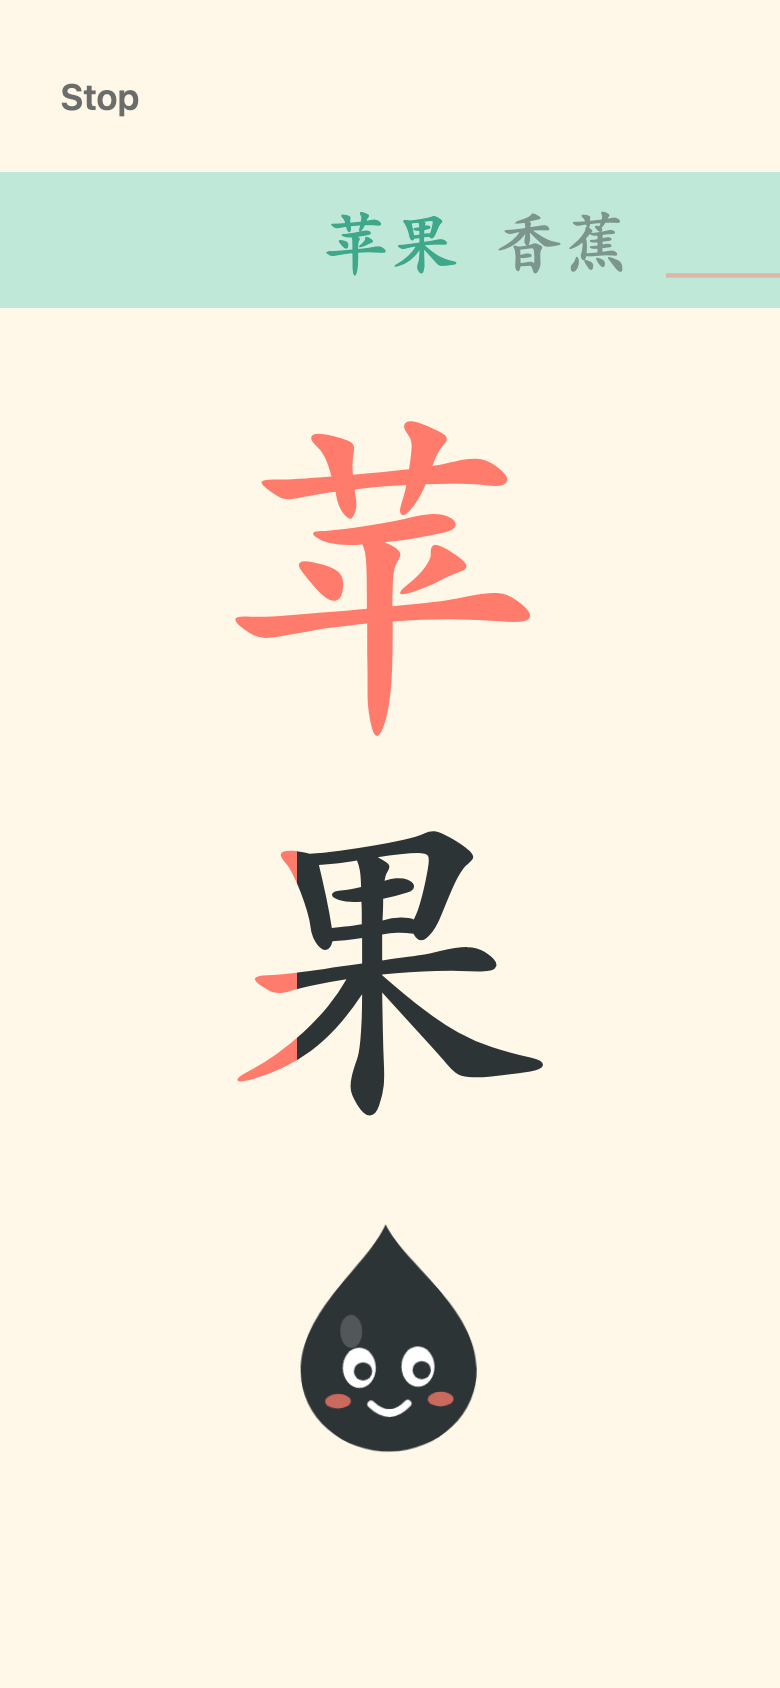
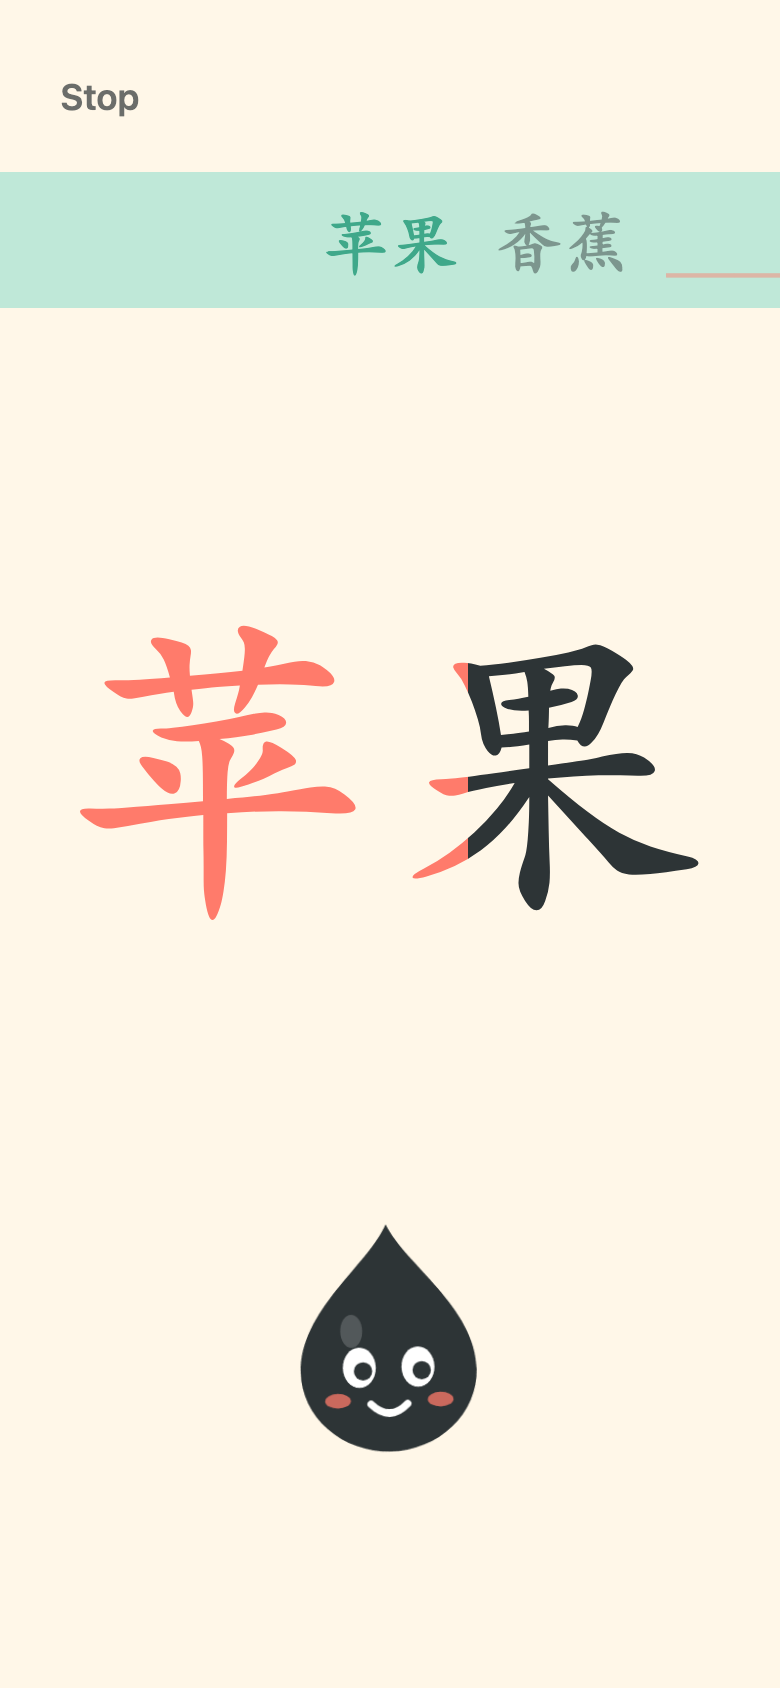
spike(momo-fun): short words stay on one line, report and README updated for round 3, fresh receipt (88 pass)

Changed region(s): [[0.0923, 0.2464, 0.8923, 0.6777]]

diff --git a/spikes/2026-09-28-momo-fun/comic-bubbles.html b/spikes/2026-09-28-momo-fun/comic-bubbles.html
@@ -205,14 +205,15 @@ function charCount(s){ return Array.from(s).length; }
 // Biggest font size that fits a word inside a box by BOTH width and height. Tries every line count
 // (at most maxPerLine characters a line) and caps the element width so the lines come out even.
 function fitWord(text, boxW, boxH, maxPx, maxPerLine){
-  var n = Math.max(1, charCount(text)), best = { px: 0, per: n };
+  var n = Math.max(1, charCount(text)), opts = [], top = 0;
   for (var lines = Math.ceil(n / maxPerLine); lines <= n; lines++){
     var per = Math.ceil(n / lines), rows = Math.ceil(n / per);
     var px = Math.floor(Math.min(maxPx, boxW / (per * 1.12), boxH / (rows * 1.2)));
-    if (px > best.px) best = { px: px, per: per };
+    opts.push({ px: Math.max(14, px), per: per }); top = Math.max(top, px);
   }
-  best.px = Math.max(14, best.px);
-  return best;
+  // Fewest lines that are nearly as big as the best: a short word stays on one line instead of stacking.
+  for (var i = 0; i < opts.length; i++) if (opts[i].px >= top * 0.8) return opts[i];
+  return opts[0];
 }
 function applyFit(el, text, boxW, boxH, maxPx, maxPerLine){
   var f = fitWord(text, boxW, boxH, maxPx, maxPerLine);

diff --git a/spikes/2026-09-28-momo-fun/karaoke-blanks.html b/spikes/2026-09-28-momo-fun/karaoke-blanks.html
@@ -192,14 +192,15 @@ function charCount(s){ return Array.from(s).length; }
 // Biggest font size that fits a word inside a box by BOTH width and height. Tries every line count
 // (at most maxPerLine characters a line) and caps the element width so the lines come out even.
 function fitWord(text, boxW, boxH, maxPx, maxPerLine){
-  var n = Math.max(1, charCount(text)), best = { px: 0, per: n };
+  var n = Math.max(1, charCount(text)), opts = [], top = 0;
   for (var lines = Math.ceil(n / maxPerLine); lines <= n; lines++){
     var per = Math.ceil(n / lines), rows = Math.ceil(n / per);
     var px = Math.floor(Math.min(maxPx, boxW / (per * 1.12), boxH / (rows * 1.2)));
-    if (px > best.px) best = { px: px, per: per };
+    opts.push({ px: Math.max(14, px), per: per }); top = Math.max(top, px);
   }
-  best.px = Math.max(14, best.px);
-  return best;
+  // Fewest lines that are nearly as big as the best: a short word stays on one line instead of stacking.
+  for (var i = 0; i < opts.length; i++) if (opts[i].px >= top * 0.8) return opts[i];
+  return opts[0];
 }
 function applyFit(el, text, boxW, boxH, maxPx, maxPerLine){
   var f = fitWord(text, boxW, boxH, maxPx, maxPerLine);

diff --git a/spikes/2026-09-28-momo-fun/teach-momo.html b/spikes/2026-09-28-momo-fun/teach-momo.html
@@ -180,14 +180,15 @@ function charCount(s){ return Array.from(s).length; }
 // Biggest font size that fits a word inside a box by BOTH width and height. Tries every line count
 // (at most maxPerLine characters a line) and caps the element width so the lines come out even.
 function fitWord(text, boxW, boxH, maxPx, maxPerLine){
-  var n = Math.max(1, charCount(text)), best = { px: 0, per: n };
+  var n = Math.max(1, charCount(text)), opts = [], top = 0;
   for (var lines = Math.ceil(n / maxPerLine); lines <= n; lines++){
     var per = Math.ceil(n / lines), rows = Math.ceil(n / per);
     var px = Math.floor(Math.min(maxPx, boxW / (per * 1.12), boxH / (rows * 1.2)));
-    if (px > best.px) best = { px: px, per: per };
+    opts.push({ px: Math.max(14, px), per: per }); top = Math.max(top, px);
   }
-  best.px = Math.max(14, best.px);
-  return best;
+  // Fewest lines that are nearly as big as the best: a short word stays on one line instead of stacking.
+  for (var i = 0; i < opts.length; i++) if (opts[i].px >= top * 0.8) return opts[i];
+  return opts[0];
 }
 function applyFit(el, text, boxW, boxH, maxPx, maxPerLine){
   var f = fitWord(text, boxW, boxH, maxPx, maxPerLine);

diff --git a/spikes/2026-09-28-momo-fun/check.py b/spikes/2026-09-28-momo-fun/check.py
@@ -73,6 +73,7 @@ TEACH_LAYOUT = """()=>{const out=[],H=innerHeight,W=innerWidth,$=id=>document.ge
   const g=glyphs($('word'));const wb=Math.max(...g.map(x=>x.bottom));
   if(Math.min(...g.map(x=>x.left))<0||Math.max(...g.map(x=>x.right))>W||Math.min(...g.map(x=>x.top))<0)out.push('word off screen');
   if(uneven($('word')))out.push('uneven word lines '+uneven($('word')));
+  if($('word').textContent.length<=3&&new Set(glyphs($('word')).map(g=>Math.round(g.top))).size>1)out.push('short word split over lines');
   const b=$('bubble');if(!b.hidden){const br=b.getBoundingClientRect();if(br.top<wb-1)out.push('bubble covers word by '+Math.round(wb-br.top)+'px');
     const z=b.querySelector('.zh');if(z&&uneven(z))out.push('uneven bubble lines '+uneven(z))}
   const m=$('momo').getBoundingClientRect();if(m.bottom>act.top+1)out.push('Momo under the button');
@@ -150,6 +151,7 @@ with sync_playwright() as p:
     pg.click("[data-speed=fast]"); small_targets(pg, "karaoke setup screen")
     pg.screenshot(path=str(SHOTS / "karaoke-setup.png"), full_page=True)
     pg.click("#go"); pg.wait_for_timeout(600); pg.screenshot(path=str(SHOTS / "karaoke-singing.png"))
+    check("karaoke: a 2-character word stays on one line", pg.evaluate("new Set([...document.querySelectorAll('#kword span')].map(s=>Math.round(s.getBoundingClientRect().top))).size") == 1)
     pg.wait_for_selector("#stage.is-gap", timeout=6000); pg.wait_for_timeout(400)
     small_targets(pg, "karaoke blank screen"); pg.screenshot(path=str(SHOTS / "karaoke-blank.png"))
     check("karaoke: reveal button has an eye icon", pg.locator("#reveal svg.ic").count() == 1)

diff --git a/spikes/2026-09-28-momo-fun/BUILD-REPORT.md b/spikes/2026-09-28-momo-fun/BUILD-REPORT.md
@@ -4,7 +4,7 @@ Date: 2026-09-28. Branch: `feat/momo-fun-spikes` (draft PR #8). Folder: `spikes/
 
 Evidence grades: A = proven in production, B = proven in source or by the committed check (`check.py`, result in `check-receipt.txt`), C = not verified.
 
-Round 2 (same day): both PR reviewers said FIX-FIRST. Every must-fix and should-fix was applied; see "Review fixes" below.
+Round 2 (same day): both PR reviewers said FIX-FIRST. All must-fixes and the should-fixes listed under "Review fixes" were applied. Round 3: one regression from the long-word fix (Teach Momo's button pushed off landscape screens) was fixed, plus the listed small items; see "Round 3 fixes".
 
 ## What each spike does
 
@@ -12,13 +12,13 @@ These are **teacher-tapped on one shared screen** (projector, smartboard or a ta
 
 | Spike | Flow | Grade |
 |---|---|---|
-| `teach-momo.html` | Paste list, Start. One word shows huge (long words wrap onto balanced lines). Button cycles: "Teach Momo" (ear; Momo leans in, "I'm listening...") then "I said it!" (mouth; 1st tap: Momo tilts, wavy mouth, red "?", "Hmm? One more time!"; 2nd tap: Momo bounces with sparkles, bubble repeats the word plus pinyin if pasted, counter goes up) then "Next word" (arrow) or "Finish" (star). End screen: "Momo learned all N words!" (or "Momo learned the word!" for one), "Teach again". | B |
+| `teach-momo.html` | Paste list, Start. One word shows as big as the screen allows: sized by both width and height, so the button always stays on screen; long words wrap onto even lines, short words stay on one line. Button cycles: "Teach Momo" (ear; Momo leans in, "I'm listening...") then "I said it!" (mouth; 1st tap: Momo tilts, wavy mouth, red "?", "Hmm? One more time!"; 2nd tap: Momo bounces with sparkles, bubble repeats the word (even lines) plus pinyin if pasted, counter goes up) then "Next word" (arrow) or "Finish" (star). End screen: "Momo learned all N words!" (or "Momo learned the word!" for one), "Teach again". | B |
 | `karaoke-blanks.html` | Paste list, Next. Word chips appear, every 3rd word pre-marked as a blank (tap to toggle). Speed: Slow / Normal / Fast. Play: a lyric strip scrolls along the top, the current word shows huge and lights up coral one character at a time (so a wrapped word still lights in reading order). At a blank: dashed "?" box, mouth icon plus "Everybody, shout it!", Momo makes an "O" mouth, "Show the word" (eye). One tap: word pops in, Momo jumps, cheer bubble, song continues. End: "That's the song!". "New list" returns to a clean paste step. | B |
-| `comic-bubbles.html` | Paste list, "Make the comic". 3 panels stacked full width on every screen size (Momo alone; Momo + coral friend; friend + Momo), 5 dashed "tap me" bubbles. Tap a bubble (it glows), tap a word; selection hops to the next empty bubble. Bubble text shrinks by word length and wraps, and two bubbles in a panel each stay under half the width. Shuffle uses every word once before repeating and leaves bubble 1 highlighted. "Empty the bubbles" resets. Print (Letter or A4) prints only the comic plus "Act it out! Name: ____"; printing before a comic exists prints "Make the comic first, then print." | B |
+| `comic-bubbles.html` | Paste list, "Make the comic". 3 panels stacked full width on every screen size (Momo alone; Momo + coral friend; friend + Momo), 5 dashed "tap me" bubbles. Tap a bubble (it glows), tap a word; selection hops to the next empty bubble. Bubble text shrinks by word length and wraps, and two bubbles in a panel each stay under half the width. Shuffle uses every word once before repeating and leaves bubble 1 highlighted. "Empty the bubbles" resets. Print (Letter or A4) prints only the comic plus "Act it out! Name: ____"; panel height follows the paper and the print margin, so it stays one page. Printing before a comic exists, or after "New list", prints "Make the comic first, then print." | B |
 
 Shared by all three (verified identical by `check.py`): the paste reader, small helpers and button icons (one JS block); the colour tokens (one CSS block); the Momo SVG markup. Momo is the same base art in every file; each mode shows its own mouth states through CSS (Teach: smile, "O", wavy; Karaoke: smile, "O"; Comic: smile). All colours live in `:root` tokens (core palette plus white, button shadows, error, soft coral, selected, muted); the SVG uses the tokens through CSS classes. Motion is CSS only; no network requests; system fonts only; `prefers-reduced-motion` respected; localStorage wrapped in try/catch. Tunable values sit in each file's `CONFIG` (word-count limits, when long words wrap, blank mark, bubble sizes, print margin, timings).
 
-Paste reader: pairs each Chinese word with the pinyin that follows it before looking at separators, so tab columns (Google Sheets, Excel), CSV lines, `苹果/píngguǒ`, numbered lists and `píngguǒ 苹果` all keep their pinyin. Pinyin needs tone marks or tone numbers; English is dropped. Known limit (C): an English word with an accent (café) would be read as pinyin.
+Paste reader: pairs each Chinese word with the pinyin that follows it before looking at separators, so tab columns (Google Sheets, Excel), CSV lines, `苹果/píngguǒ`, numbered lists and `píngguǒ 苹果` all keep their pinyin. Lines that start with pinyin (`píngguǒ 苹果 xiāngjiāo 香蕉`) give each word the pinyin before it. Pinyin needs tone marks or tone numbers; English is dropped. Known limits: an English word with an accent (café) is read as pinyin (C, not in check.py); a line with several words where pinyin is missing for some of them in an unusual order (`苹果 香蕉 píngguǒ`) can attach the pinyin to the wrong word (B, reviewer probe). One word per line, the usual teacher list, is always paired correctly (B).
 
 ## Screenshots (`shots/`, refreshed by `check.py`)
 
@@ -26,7 +26,8 @@ Paste reader: pairs each Chinese word with the pinyin that follows it before loo
 |---|---|---|
 | `teach-momo.png` | phone 390 | Momo just learned 苹果, bubble 苹果 / píngguǒ, counter "1 word", arrow on "Next word" |
 | `teach-momo-confused.png` | phone 390 | First "I said it!": Momo confused, mouth icon on the button |
-| `teach-long-word.png` | phone 390 | 巧克力蛋糕 on two lines, nothing off screen |
+| `teach-long-word.png` | phone 390 | 巧克力蛋糕 on two even lines, answer bubble, button on screen |
+| `teach-landscape-1280x720.png` | 1280x720 | 9-character word, answer bubble, Momo and the Finish button all on screen |
 | `karaoke-setup.png` | phone 390 | Chips with 西瓜 and 橙子 as blanks, Fast selected |
 | `karaoke-singing.png` | phone 390 | 苹果 lighting up |
 | `karaoke-blank.png` | phone 390 | Blank: "?" box, "Everybody, shout it!", eye on "Show the word" |
@@ -37,17 +38,17 @@ Paste reader: pairs each Chinese word with the pinyin that follows it before loo
 | `comic-print-letter.png`, `comic-print-a4.png` | print | Printed page, 1 page each |
 | `review-board.png` | 1280 | The review board (first round) |
 
-## Verified by the committed check (`python3 check.py`, 73 PASS, 0 FAIL; full list in `check-receipt.txt`)
+## Verified by the committed check (`python3 check.py`, 88 PASS, 0 FAIL; full list in `check-receipt.txt`)
 
-Headless Chromium through Python Playwright, phone 390x844 and laptop 1280x800, sound stubbed.
+Headless Chromium through Python Playwright, phone 320x568 and 390x844, laptop 1280x800, 1280x720 and 1366x768, sound stubbed.
 
 | Area | What is checked | Grade |
 |---|---|---|
 | Shared code | JS block, CSS token block and Momo SVG identical in all 3 files; no colour literals outside `:root`; no placeholder note on screen | B |
-| Paste reader | 13 cases: numbered, tab, CSV, slash, tone numbers, `Q1`/`mp3` not taken as pinyin, 〇, duplicate filled with later pinyin, several words per line, English only, HTML-shaped text; 40-line list | B |
-| Teach Momo | confused then gets it, pinyin shown, "1 word" grammar, icon on button, end screen; 5, 9 and 4 character words fit with no sideways scroll at phone and laptop width; one-word grammar | B |
-| Karaoke | every 3rd word blank, three presses in one frame reveal once and move one word, end screen, New list fully resets, Stop halts, too-short list message, 5-character word fits and lights in reading order at phone and laptop width | B |
-| Comic | no bubble or character overlaps with 3 to 5 character words over 3 shuffles at phone AND laptop width, no sideways scroll, empty print shows the plain message on 1 page, too-short and too-long lists handled (capped at 24), tap bubble then word, Shuffle highlights a bubble and the next tap replaces only it, icons, Letter and A4 print 1 page each | B |
+| Paste reader | 14 cases: numbered, tab, CSV, slash, tone numbers, pinyin-first line with two words, `Q1`/`mp3` not taken as pinyin, 〇, duplicate filled with later pinyin, several words per line, English only, HTML-shaped text; 40-line list | B |
+| Teach Momo | confused then gets it, pinyin shown, "1 word" grammar, icon on button, end screen, one-word grammar; 4, 5 and 9 character words at 1280x720, 1366x768, 1280x800 and 390x844 through every step (listen, confused, gets it): button on screen, every character on screen, bubble never over the word, Momo never under the button, no page scroll, even lines in the word and the bubble, 2-3 character words on one line; sideways fit at phone and laptop | B |
+| Karaoke | every 3rd word blank, three presses in one frame reveal once and move one word, end screen, New list fully resets, Stop halts, too-short list message, 5-character word fits and lights in reading order at phone and laptop width; 2-character word stays on one line; 9-character word, Momo and the button stay on screen at 1280x720 and 390x844 (singing and blank); every word a blank plays through | B |
+| Comic | nothing overlaps (any bubble or character pair) with 2 to 12 character words over 3 shuffles at 320, 390 and 1280 width, no sideways scroll, empty print shows the plain message on 1 page, too-short and too-long lists handled (capped at 24), tap bubble then word, Shuffle highlights a bubble and the next tap replaces only it, icons, Letter and A4 print 1 page each, a 1 inch margin still prints 1 Letter page, after New list printing shows the plain message (no stale comic) | B |
 | Tap targets | every visible button and the text box measured at 64 x 64 px or larger on 10 screens (phone and laptop) | B |
 | Errors and network | no page or console errors; no request outside the local files | B |
 | Remembered list | carries between the three files from local files in Chromium | B (Chromium), C (Safari) |
@@ -72,6 +73,18 @@ Not verified (C): real phones and tablets, Safari/iOS (including Safari's suppor
 | Word-count policy, literals | `minWords` / `maxWords` in every CONFIG with plain messages; long-word rule, blank mark, print margin in CONFIG |
 | English-only buttons | Kept English per JJ's plain-English rule, added pictures to every main action, scoped as teacher-tapped; immersion question goes to JJ |
 | Repo rules | README lists the waived rules (agent API, tests, demo video) and why |
+
+## Round 3 fixes
+
+| Reviewer item | Fix |
+|---|---|
+| Teach Momo button pushed off landscape screens (must-fix) | Word sized by width AND the height left above the bubble room, Momo and the button; faded bubble takes no space; Momo scales with screen height; check.py tests 4 screen sizes with 4, 5 and 9 character words at every step |
+| Comic stale print after New list | New list clears the comic, so printing shows the plain message |
+| Overlap check skipped bubble vs character | Check now tests every pair; report wording matches |
+| Report said every should-fix was applied | Reworded; parser limits and the all-blank karaoke run are now stated (the run is in check.py) |
+| 1 inch print margin gave 2 pages | Panel height worked out from paper and margin |
+| Pinyin-first lines paired wrong | Lines that start with pinyin pair each word with the pinyin before it; remaining limit documented |
+| Answer bubble lines uneven | Bubble uses the same even-line fit as the main word |
 
 ## Open questions for JJ
 

diff --git a/spikes/2026-09-28-momo-fun/README.md b/spikes/2026-09-28-momo-fun/README.md
@@ -16,7 +16,7 @@ Three throwaway prototypes for Avery Studio classroom games. The idea behind all
 
 Double-click any `.html` file. No install, no internet, no account. Each one is a single file that works offline (system fonts only, no outside requests).
 
-Every spike starts with a paste box. Paste the class word list as it is: numbered lists, Google Sheets or Excel columns, CSV lines and `苹果/píngguǒ` all work. Only the Chinese words are kept, each with the pinyin that follows it. Pinyin is kept only when it has tone marks (píngguǒ) or tone numbers (ping2guo3); English is dropped. The last pasted list is remembered in this browser, so switching between the three spikes does not need a second paste.
+Every spike starts with a paste box. Paste the class word list as it is: numbered lists, Google Sheets or Excel columns, CSV lines and `苹果/píngguǒ` all work. Only the Chinese words are kept, each with its pinyin (the pinyin after it, or before it when the line starts with pinyin). One word per line always pairs correctly; a line mixing several words with only some pinyin can pair wrong. Pinyin is kept only when it has tone marks (píngguǒ) or tone numbers (ping2guo3); English is dropped. The last pasted list is remembered in this browser, so switching between the three spikes does not need a second paste.
 
 **How they are played:** these spikes are **teacher-tapped on one shared screen** (a projector, a smartboard or a tablet the class gathers around). The buttons are in plain English for the teacher; each main button also carries a picture (a mouth for "I said it!", an arrow for "Next word", an eye for "Show the word") so a child who cannot read English yet can follow along. Whether kid-facing screens should have any English at all in an immersion classroom is an open question for JJ.
 
